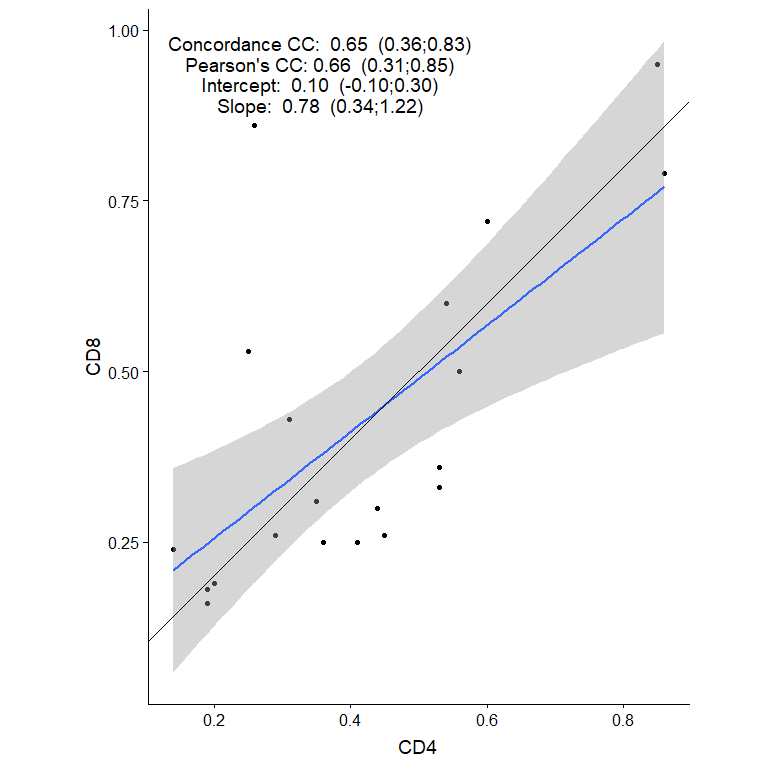
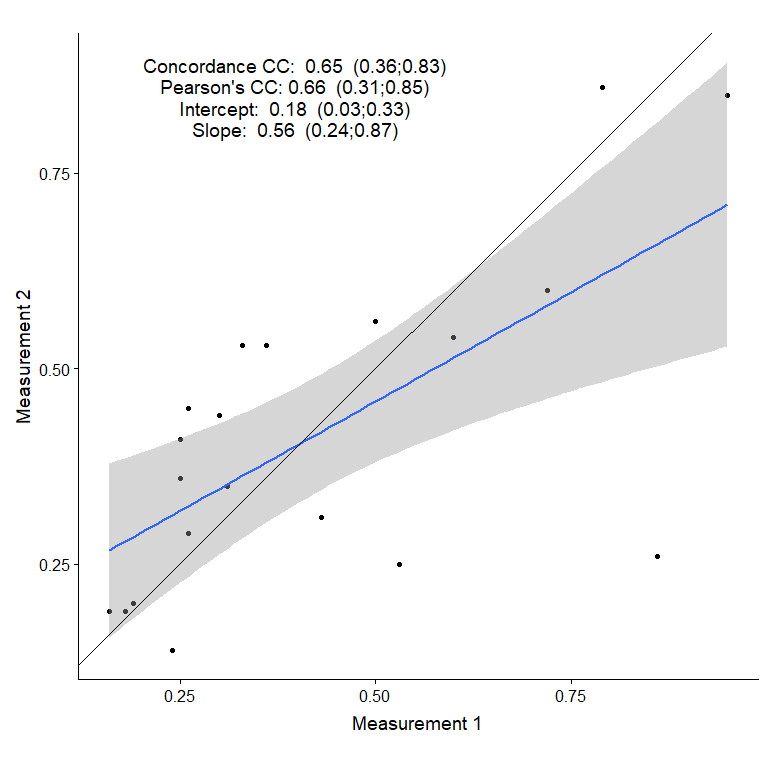
Update package data

diff --git a/README.md b/README.md
@@ -27,7 +27,9 @@ This is an example of the output from `gg_ccc`.
 ``` r
 library(ggccc)
 data( test_tbl )
-gg_ccc( test_tbl, x = "CD4", y = "CD8",  
+gg_ccc( test_tbl, 
+        x = "Measurement 1", 
+        y = "Measurement 2", 
         shift_x = 20, shift_y = 4, 
         table_font_size = 5,
         table_font_gap = 3.2 ) +
